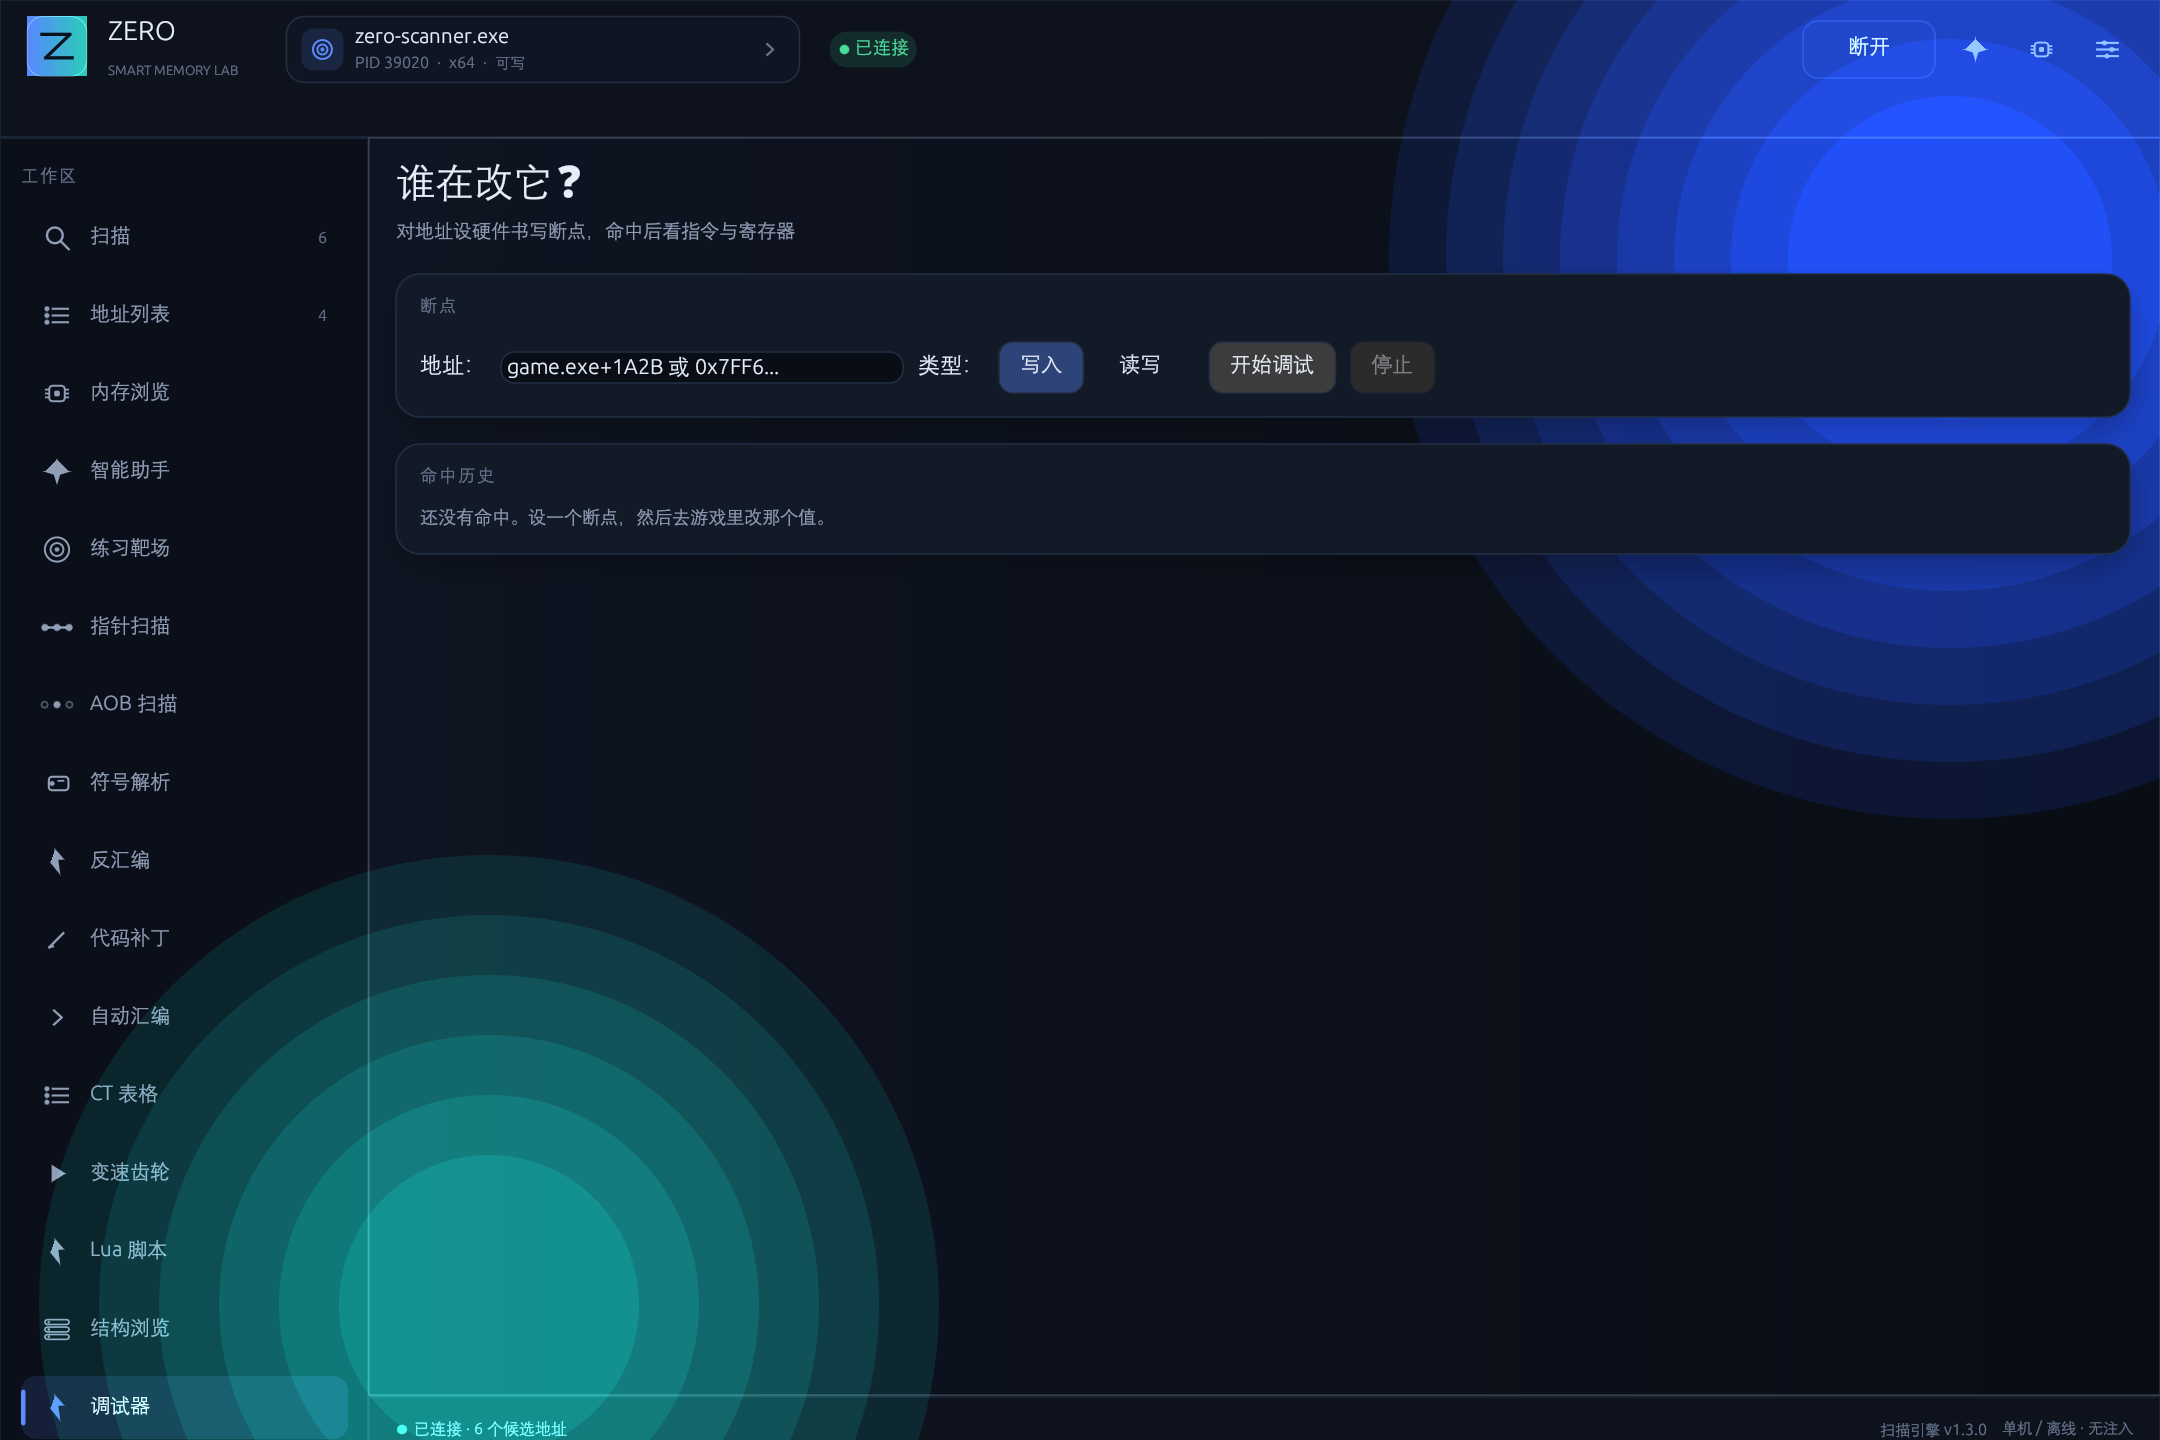
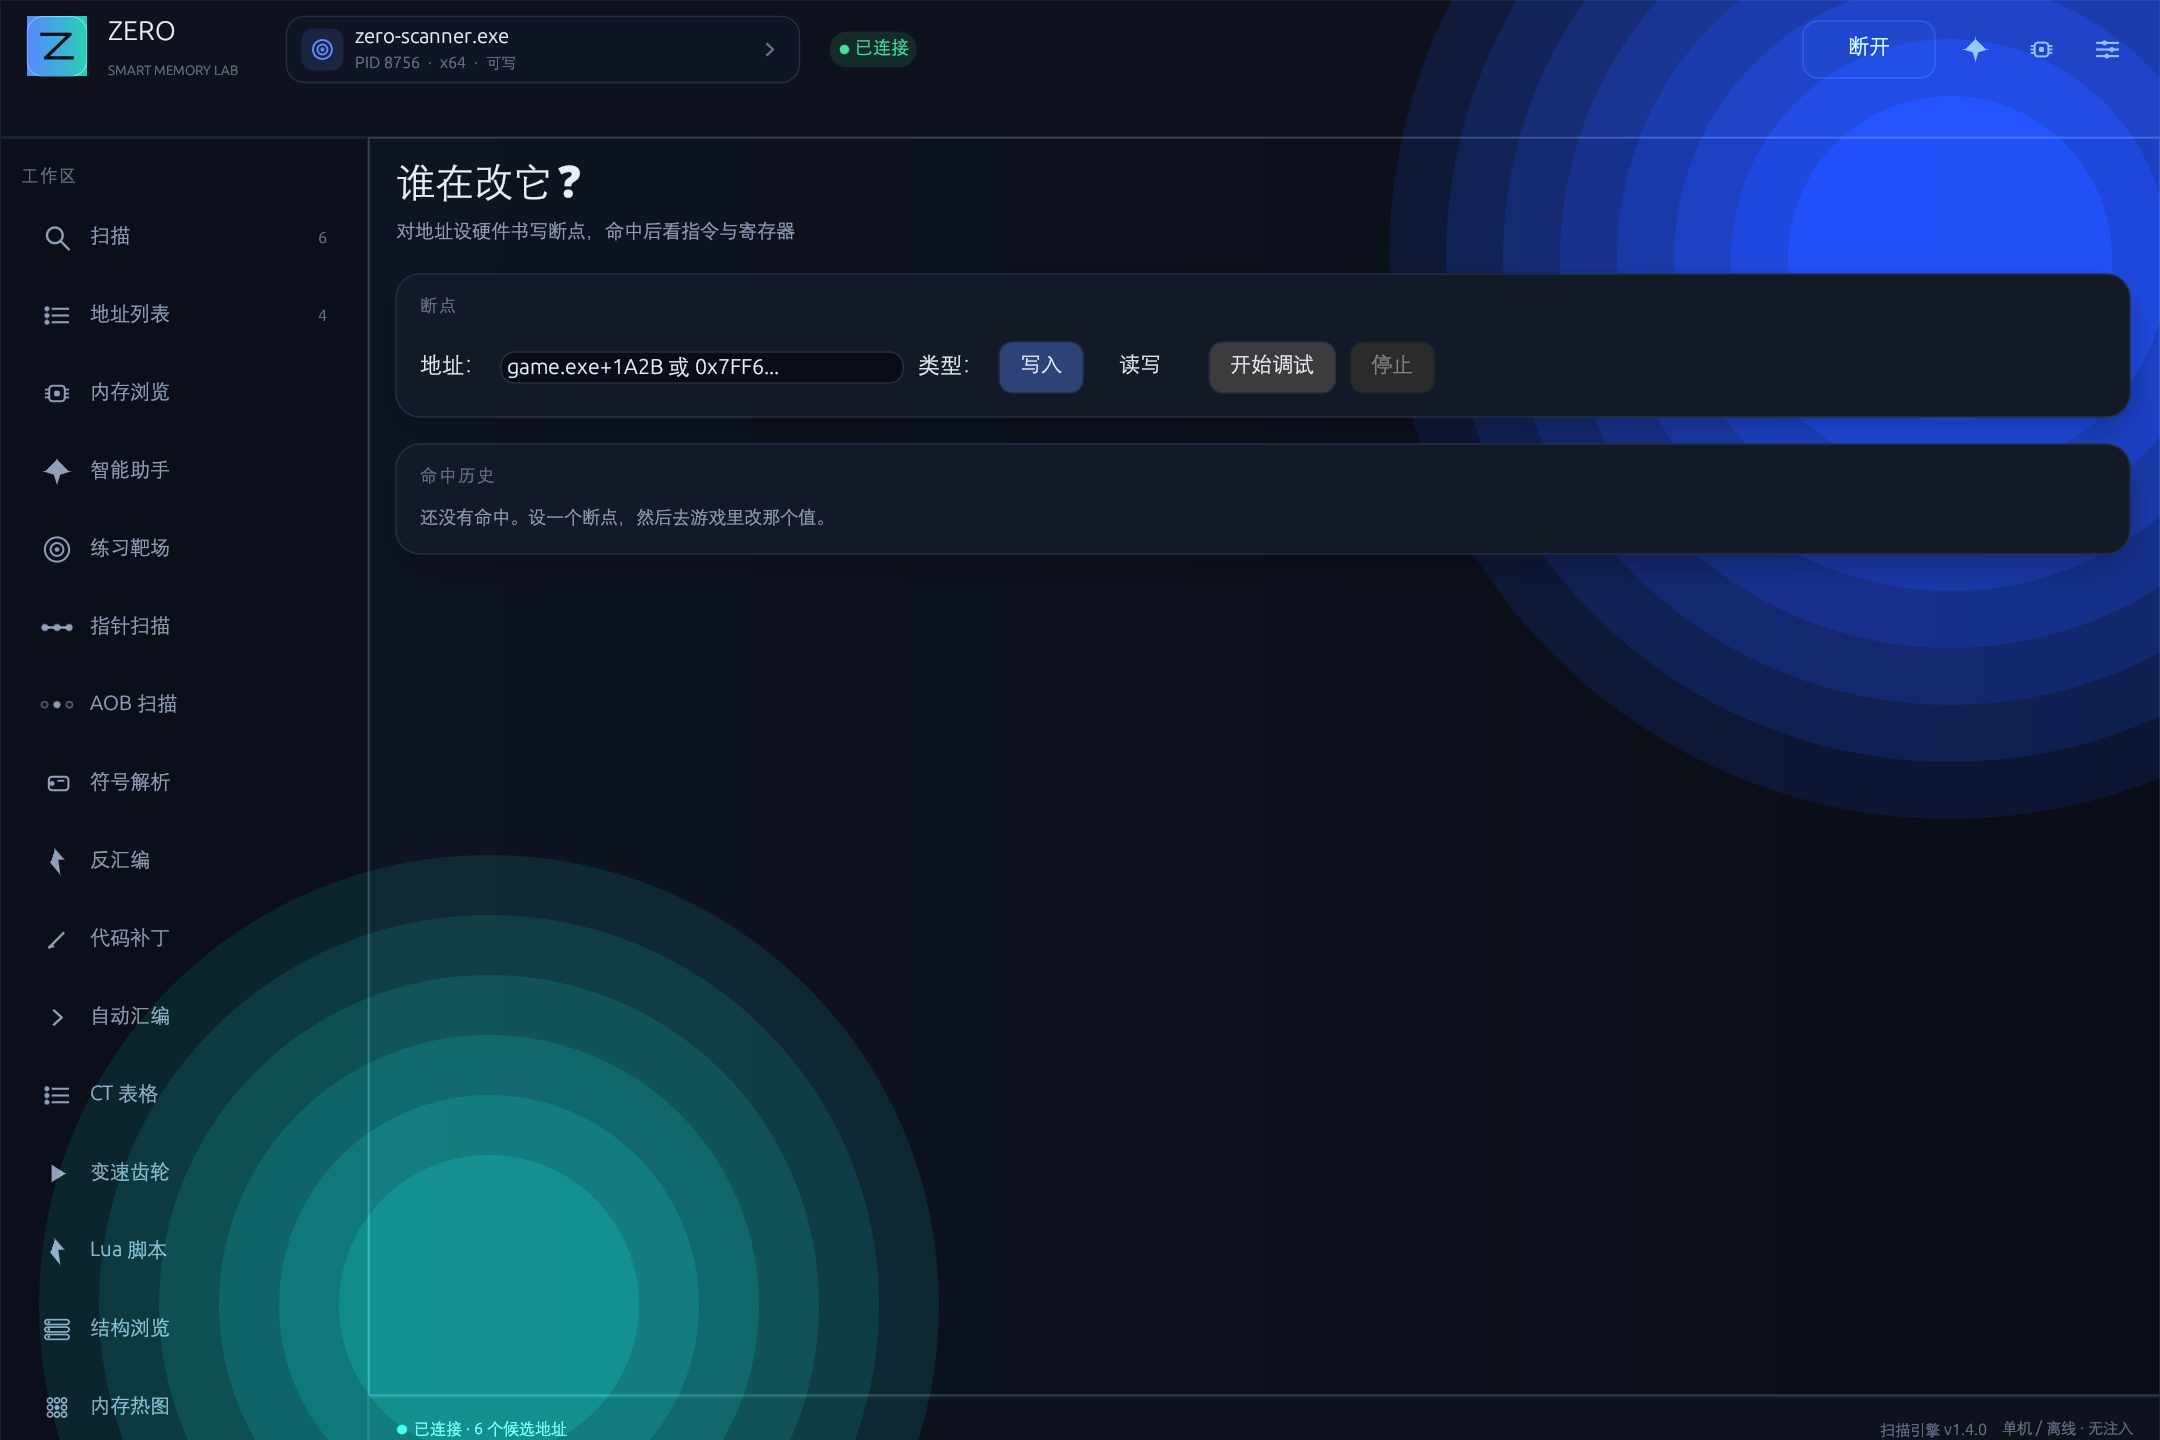
feat(debugger): 命中行一键 NOP 打补丁（反汇编定长 + 走 inj 可还原）

Changed region(s): [[0.0, 0.9375, 0.1861, 1.0], [0.1861, 0.0312, 0.2171, 0.0625]]

diff --git a/app/src/app.rs b/app/src/app.rs
@@ -3166,6 +3166,38 @@ impl ZeroApp {
         }
     }
 
+    /// NOP the instruction that a debugger hit blames. The hit recorded the
+    /// exact RIP and the instruction bytes it executed, so patching is one
+    /// reversible inj::apply — the same undo path as a manual patch.
+    pub fn patch_hit(&mut self, rip: u64, insn_bytes: &[u8]) {
+        let Some(handle) = self.process.clone() else {
+            self.toast("先连接一个进程。", ToastKind::Warn);
+            return;
+        };
+        // Decode from the recorded bytes so the NOP covers exactly one
+        // instruction — never a guess from the string form.
+        let len = disasm::decode(insn_bytes, rip, handle.is_64bit)
+            .map(|insn| insn.length)
+            .unwrap_or(0);
+        if len == 0 || len > 15 {
+            self.toast("这条指令的字节解不出来，先在反汇编页看一眼再手动补丁。", ToastKind::Warn);
+            return;
+        }
+        let bytes = vec![0x90u8; len];
+        let label = format!("命中 NOP @{rip:X}");
+        match inj::apply(&handle, rip, &bytes, &label) {
+            Ok(patch) => {
+                let n = patch.size();
+                self.inj_patches.push(patch);
+                self.toast(
+                    format!("已把 {rip:X} 的 {n} 字节指令 NOP 掉，可在补丁页还原"),
+                    ToastKind::Success,
+                );
+                self.save_workspace();
+            }
+            Err(e) => self.toast(e, ToastKind::Error),
+        }
+    }
     pub fn revert_patch(&mut self, index: usize) {
         let Some(handle) = self.process.clone() else {
             return;

diff --git a/app/src/ui.rs b/app/src/ui.rs
@@ -582,6 +582,7 @@ impl ZeroApp {
 
         // 命中历史
         ui.add_space(8.0);
+        let mut nop_hit: Option<(u64, Vec<u8>)> = None;
         theme::card_frame().show(ui, |ui| {
             ui.set_width(ui.available_width());
             theme::section_label(ui, "命中历史");
@@ -612,6 +613,11 @@ impl ZeroApp {
                                 .color(theme::text()),
                         );
                         ui.with_layout(egui::Layout::right_to_left(egui::Align::Center), |ui| {
+                            let rip = rec.rip;
+                            let insn_bytes = rec.bytes.clone();
+                            if theme::outline_button(ui, "NOP 这条指令", true).clicked() {
+                                nop_hit = Some((rip, insn_bytes));
+                            }
                             ui.label(
                                 egui::RichText::new(format!(
                                     "线程 {} · 写后 {}",
@@ -637,6 +643,9 @@ impl ZeroApp {
                 ui.add_space(4.0);
             }
         });
+        if let Some((rip, insn_bytes)) = nop_hit {
+            self.patch_hit(rip, &insn_bytes);
+        }
         // 本帧结束时没再需要持续刷新：命中会由后台线程更新，UI 靠常规重绘即可。
         ui.ctx().request_repaint_after(Duration::from_millis(500));
     }
